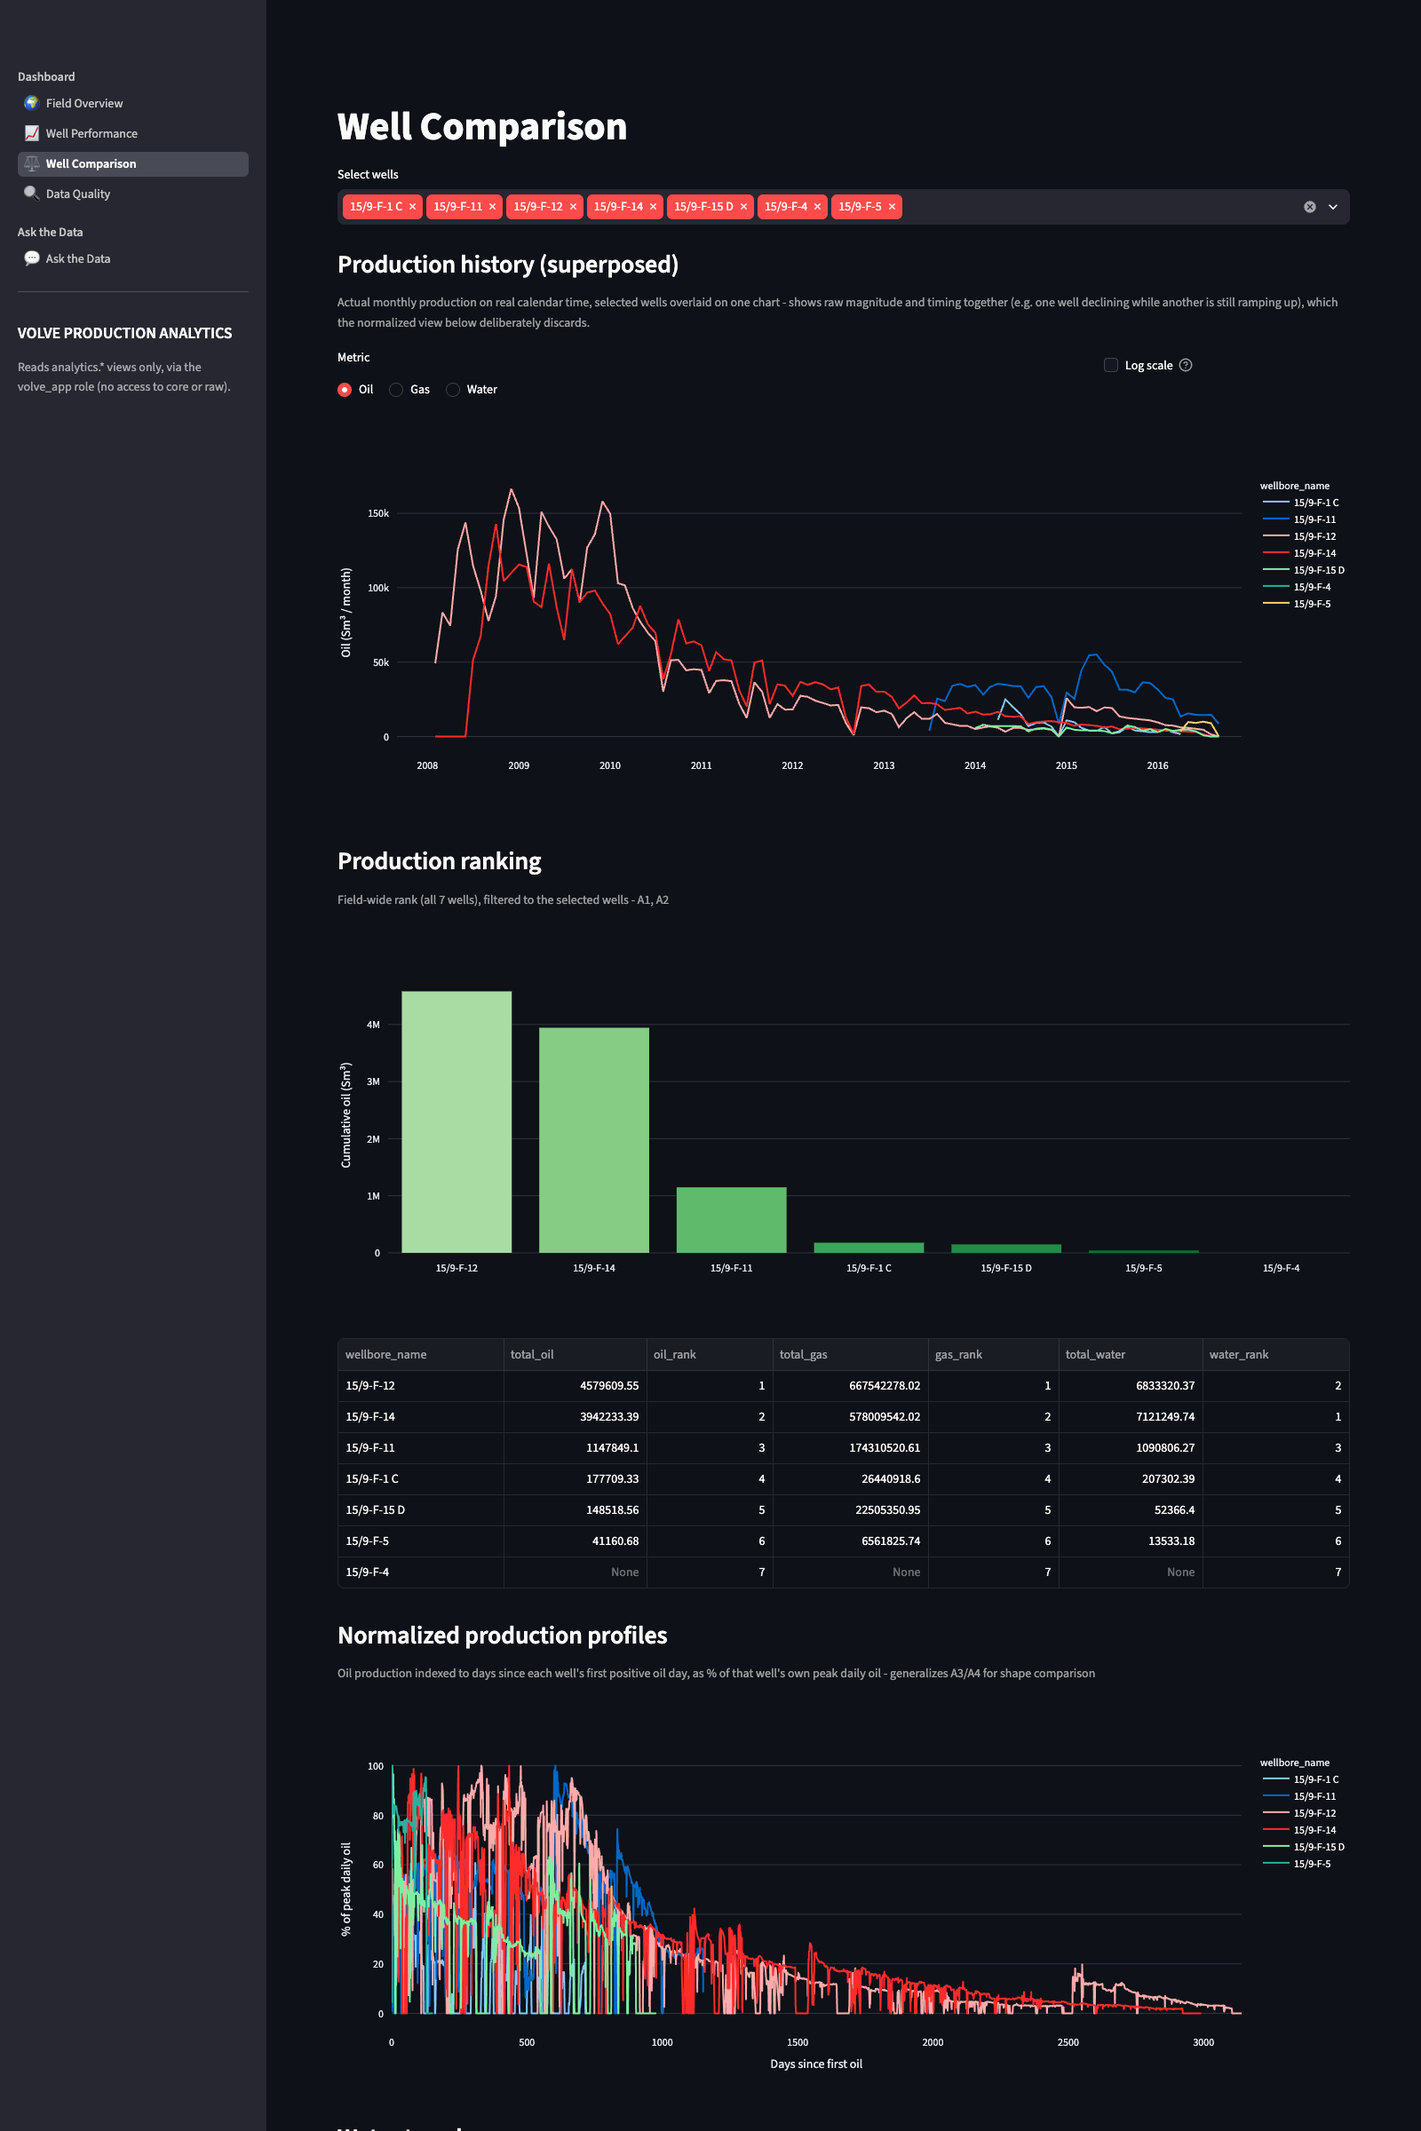
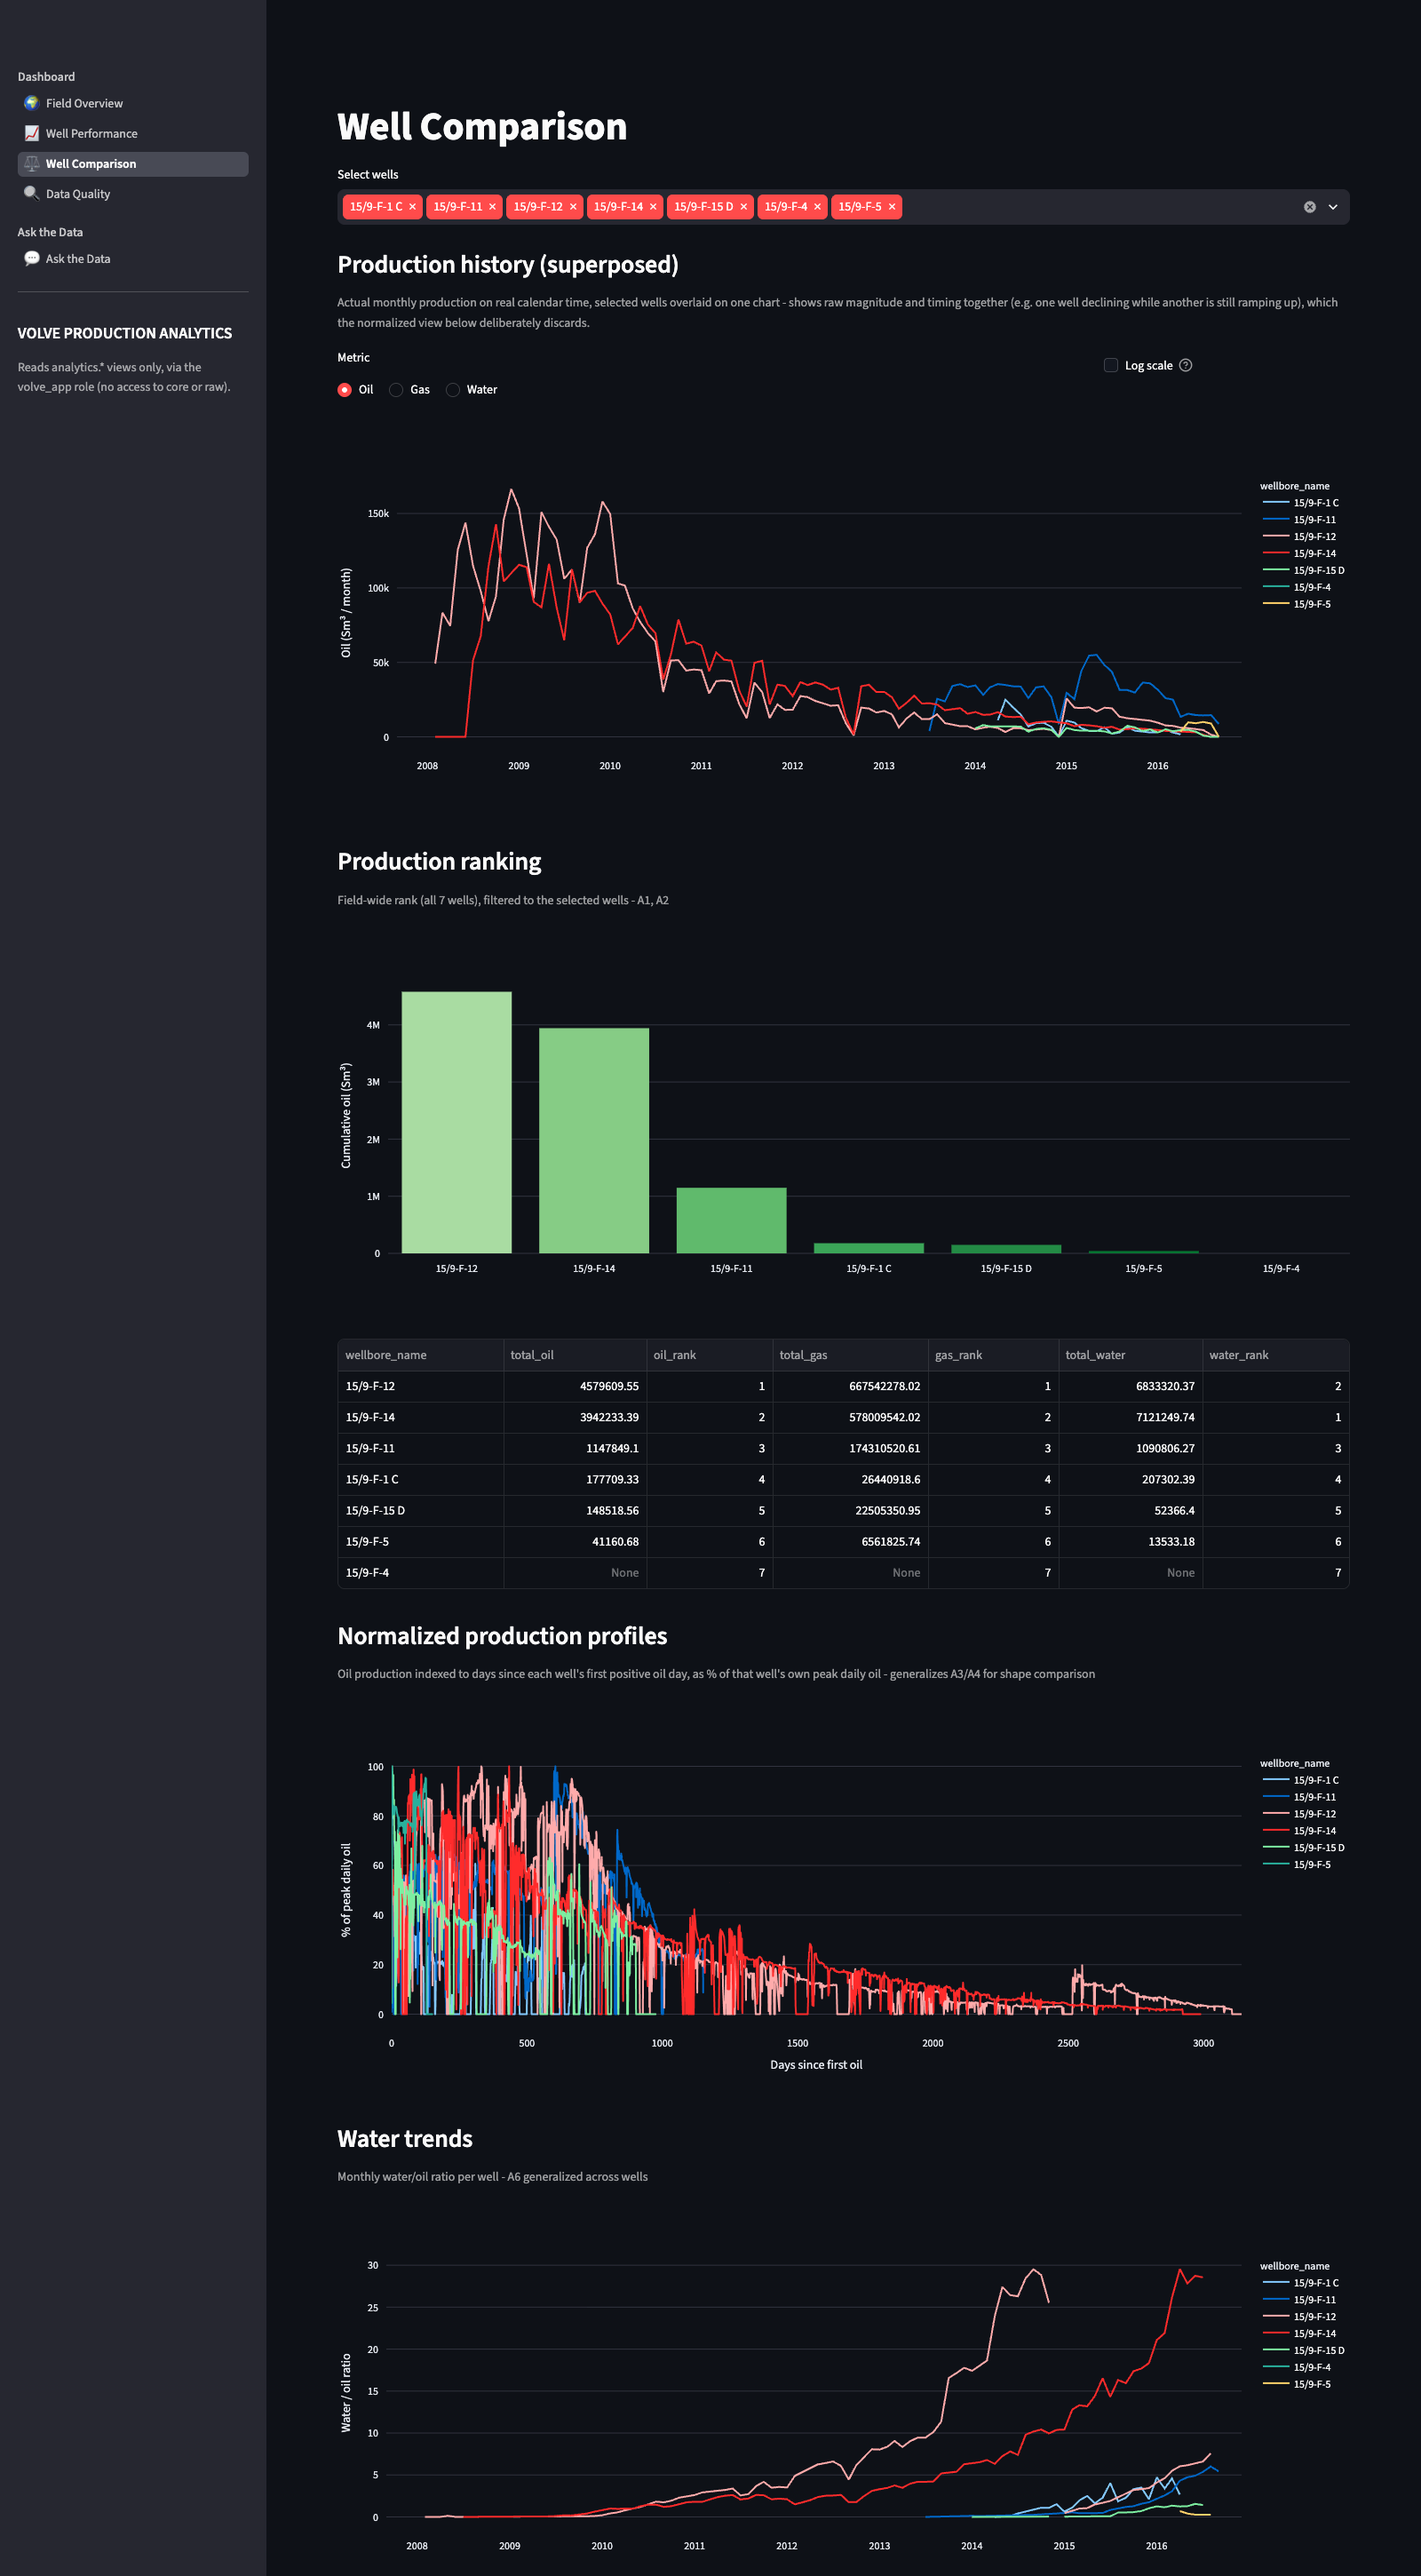
Fix Water trends chart's cluttered x-axis on Well Comparison
Root cause verified, not assumed: the chart forced type="category" on
a "YYYY-MM" string label instead of a real date, putting one x-axis
tick per calendar month - up to 100+ crowded ticks across 9 years x 7
wells - instead of the automatic year-spaced ticks every other
time-series chart in this app gets from a real date column. Checked
the ratio values themselves first (up to ~25-30 late in some wells'
lives) and confirmed they're genuine rising water cut, not
division-by-near-zero noise, so the fix is purely the axis, not the
data.

queries.water_trends() now returns a real month_start date (same
make_date() pattern as monthly_production_multi()); the view no longer
builds a string label or forces category type. Verified via AppTest
(zero exceptions) and visually - the chart now clearly shows two wells'
water cut rising from ~0 to ~25-30 through 2016 while others stay low,
a real trend the cluttered axis had made illegible.

diff --git a/app/views/well_comparison.py b/app/views/well_comparison.py
@@ -92,11 +92,16 @@ st.subheader("Water trends")
 st.caption("Monthly water/oil ratio per well  -  A6 generalized across wells")
 water = q.water_trends(selected_codes)
 if not water.empty:
-    water["month_start"] = water["year"].astype(str) + "-" + water["month"].astype(str).str.zfill(2)
-    # Default categorical palette - same reasoning as the two charts above.
+    # Real date axis, not a categorical string month label - the previous
+    # version forced type="category" on a "YYYY-MM" string, which put one
+    # tick per calendar month (up to ~100+ across 9 years x 7 wells) instead
+    # of the automatic year-spaced ticks every other time-series chart in
+    # this app gets from a real date column. That was the actual
+    # readability problem, not the ratio values themselves (verified live:
+    # they genuinely reach ~25-30 late in some wells' lives - real rising
+    # water cut, not division-by-near-zero noise).
     fig3 = px.line(water, x="month_start", y="water_oil_ratio", color="wellbore_name")
     fig3.update_layout(yaxis_title="Water / oil ratio", xaxis_title=None)
-    fig3.update_xaxes(type="category")
     st.plotly_chart(fig3, width="stretch")
 else:
     st.caption("No monthly data for the selected wells.")

diff --git a/app/queries.py b/app/queries.py
@@ -230,15 +230,19 @@ def monthly_production_multi(well_codes: list[int]) -> pd.DataFrame:
 def water_trends(well_codes: list[int]) -> pd.DataFrame:
     """analytics.vw_monthly_well_performance - per-well water-oil ratio, A6 generalized"""
     if not well_codes:
-        return pd.DataFrame(columns=["wellbore_name", "year", "month", "water_oil_ratio"])
-    return run_query(f"""
+        return pd.DataFrame(columns=["wellbore_name", "month_start", "water_oil_ratio"])
+    df = run_query(f"""
         SELECT
-            wellbore_name, year, month, water_volume, oil_volume,
+            wellbore_name,
+            make_date(year, month, 1) AS month_start,
+            water_volume, oil_volume,
             ROUND(water_volume / NULLIF(oil_volume, 0), 3) AS water_oil_ratio
         FROM {VIEW_MONTHLY}
         WHERE npd_well_bore_code = ANY(%s)
-        ORDER BY wellbore_name, year, month
+        ORDER BY wellbore_name, month_start
     """, (well_codes,))
+    df["month_start"] = pd.to_datetime(df["month_start"])
+    return df
 
 
 def decline(well_codes: list[int]) -> pd.DataFrame:
